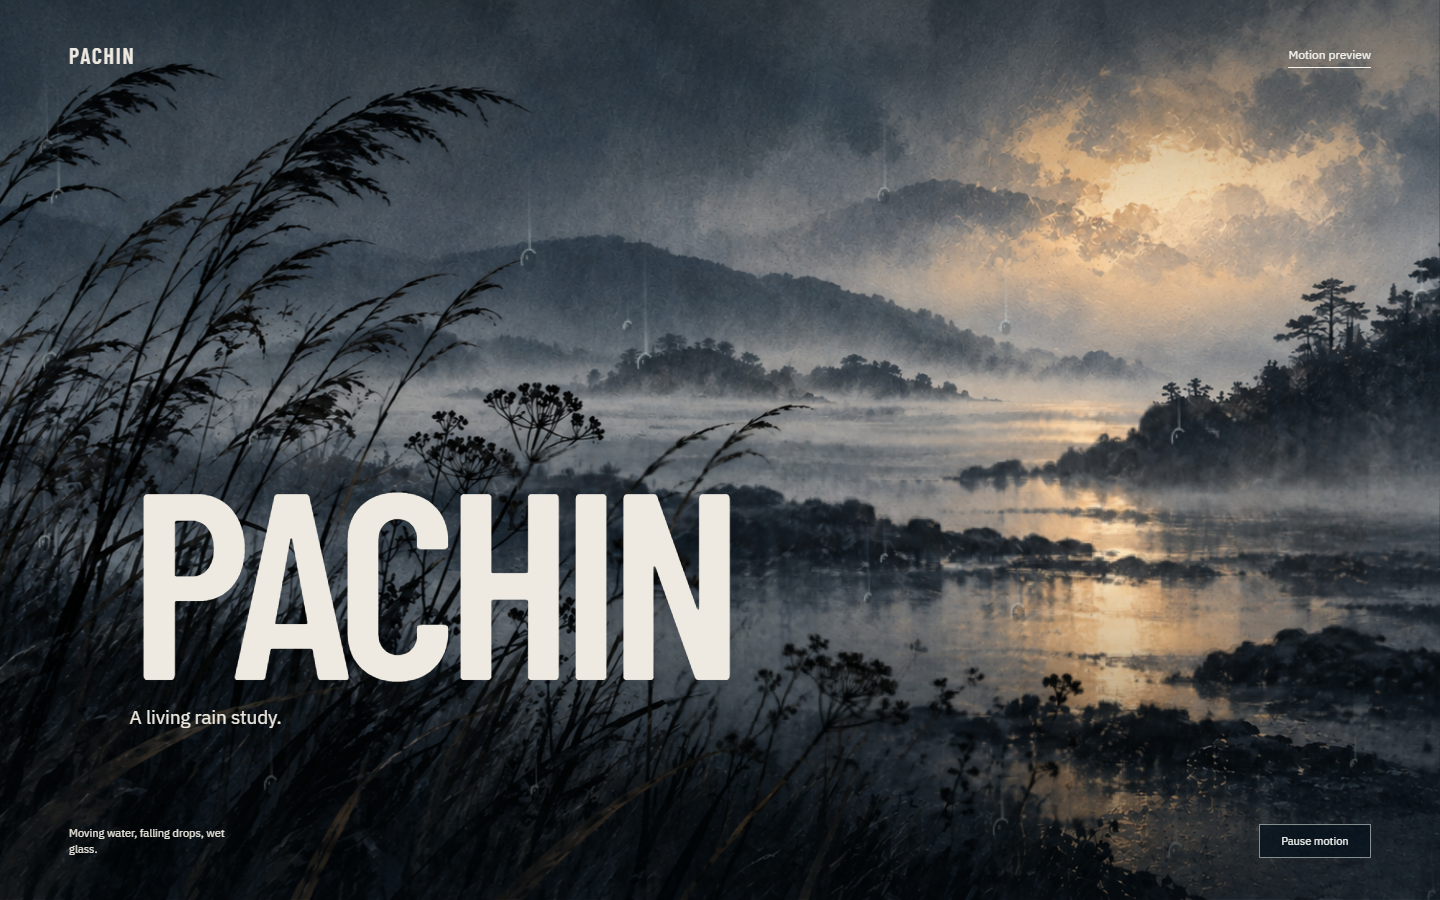
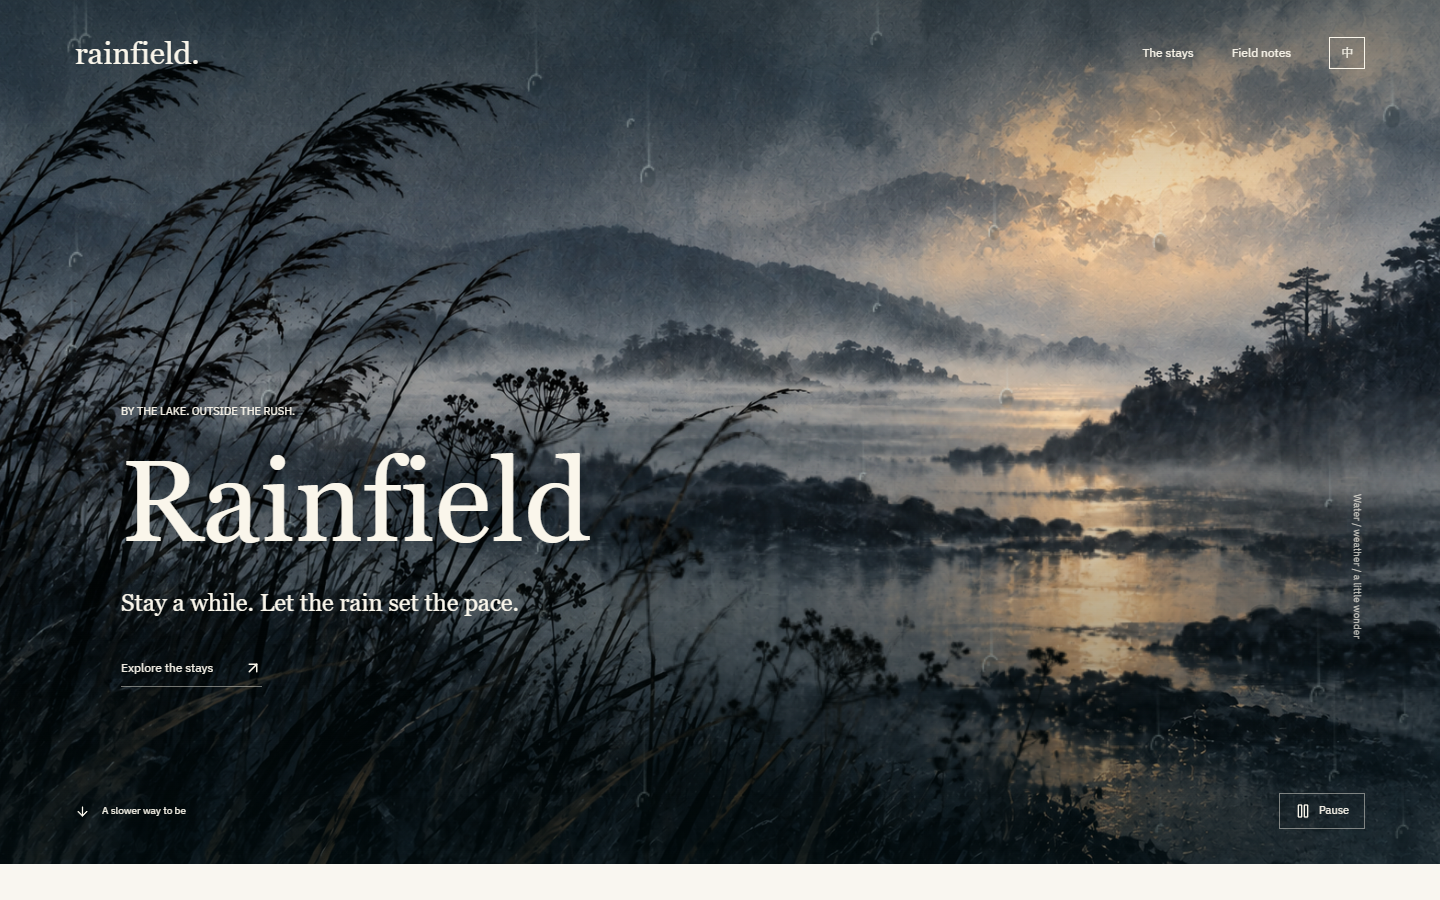
Add verified preview screenshots and publication QA

diff --git a/scripts/subset-font.py b/scripts/subset-font.py
@@ -1,0 +1,14 @@
+"""Regenerate the local Chinese webfont after modifying authored copy (stdlib only)."""
+import json,re,urllib.request,urllib.parse
+from pathlib import Path
+root=Path(__file__).resolve().parents[1]
+manifest=json.loads((root/"docs/font-subset.json").read_text(encoding="utf-8"))
+chars="".join(sorted(set(re.findall(r"[\u3000-\u303f\u3400-\u9fff\uff00-\uffef]","\n".join(p.read_text(encoding="utf-8") for p in (root/"src").rglob("*") if p.suffix in (".ts",".tsx"))))))+"ABCDEFGHIJKLMNOPQRSTUVWXYZabcdefghijklmnopqrstuvwxyz0123456789 .,!?/:;()-–—"
+headers={"User-Agent":"Mozilla/5.0 Chrome/130.0.0.0 Safari/537.36"}
+url="https://fonts.googleapis.com/css2?"+urllib.parse.urlencode({"family":manifest["family"],"text":chars,"display":"swap"})
+with urllib.request.urlopen(urllib.request.Request(url,headers=headers)) as r:css=r.read().decode()
+url=re.findall(r"src:\s*url\(([^)]+)\)",css)[0]
+with urllib.request.urlopen(urllib.request.Request(url,headers=headers)) as r:font=r.read()
+if not font.startswith(b"wOF2"):raise RuntimeError("Expected WOFF2")
+(root/"public"/manifest["path"]).write_bytes(font)
+print("Saved",len(font),"bytes; authored Chinese characters covered:",len(chars))

diff --git a/docs/PUBLICATION-QA.md b/docs/PUBLICATION-QA.md
@@ -1,0 +1,19 @@
+# Publication QA — 2026-10-07
+
+Independent Codex verification against the actual GitHub Actions production build artifact, served locally at the same repository base path.
+
+- TypeScript check and production build: passed in GitHub Actions.
+- Four direct-entry routes × two viewport sizes (1440×900, 390×844) × EN/ZH: 16 states checked.
+- Page errors: 0. Recorded failed normal resources: 0. Horizontal overflow: 0. Broken settled images: 0.
+- Chinese page language and visible translated content checked. CHROMA uses zh-Hans; the other sites use zh-CN. Brand headlines may remain proper English names.
+- Desktop and mobile homepage screenshots reviewed; assets/preview.png updated from this actual build.
+
+## Actual interaction evidence
+
+{
+  "resume": 1
+}
+
+## Limits
+
+Chromium automation and viewport emulation; physical touch devices, other browser engines, and formal screen-reader acceptance were not repeated. Historical Lovable lifecycle/reduced-motion evidence is preserved separately in docs/lovable/QA.md. Public deployment is verified separately after promotion to main.
